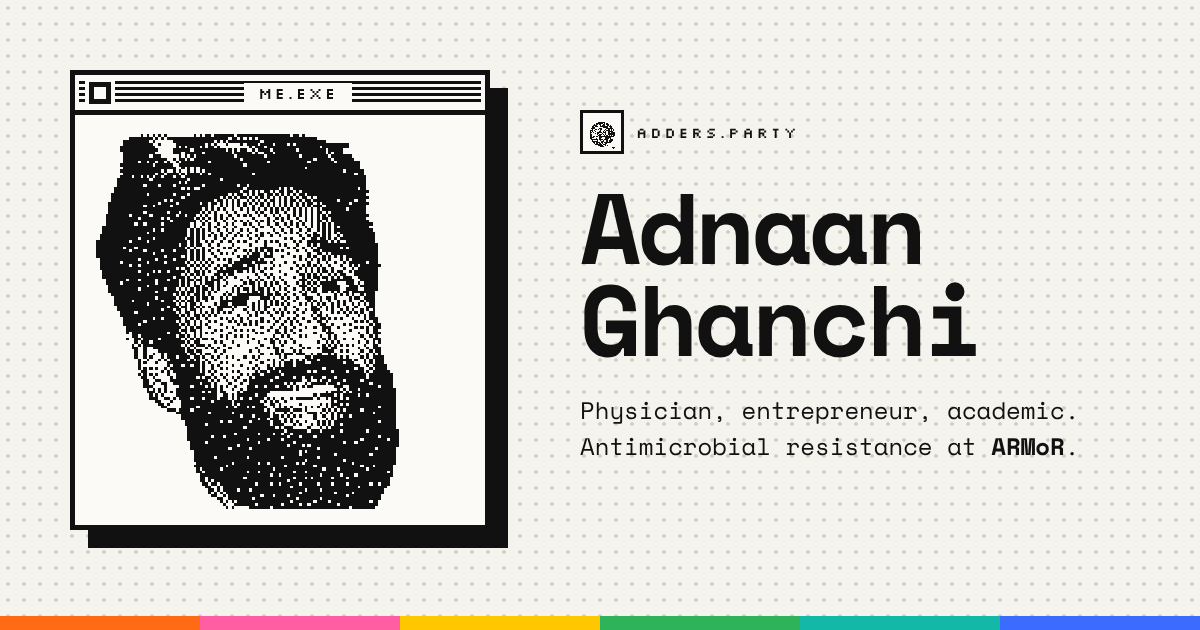
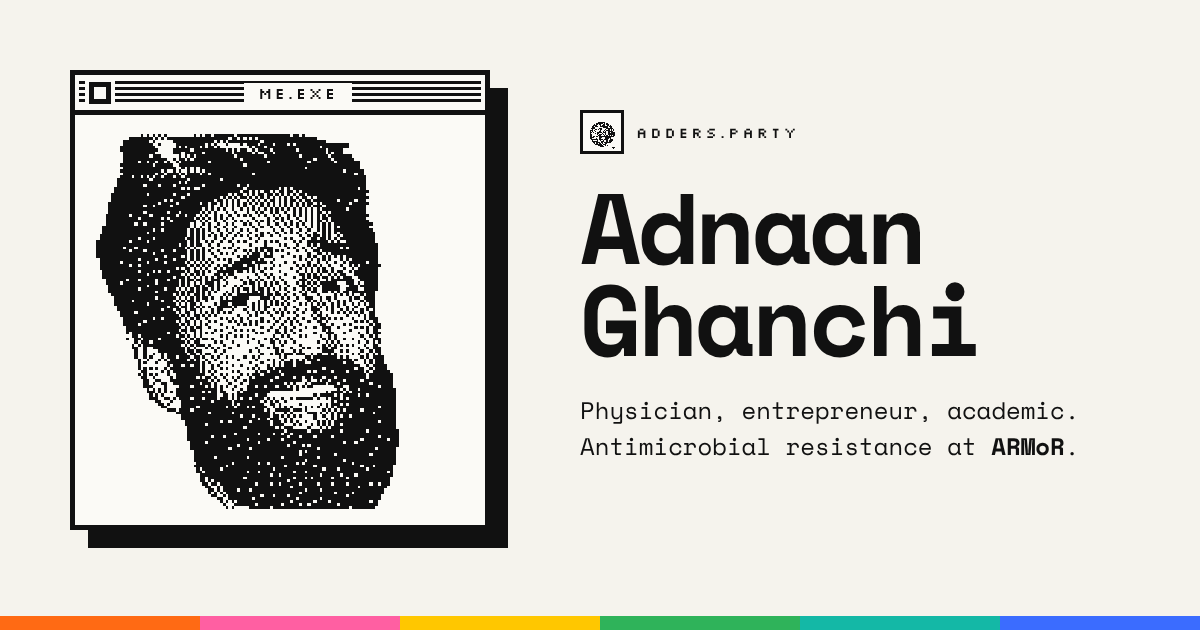
Plain cream background (no dot grid) on site and link preview
Claude-Session: https://claude.ai/code/session_01BQSd4bs8w7NkQPYEEyGhRS

diff --git a/public/index.html b/public/index.html
@@ -61,8 +61,6 @@
   body{
     margin:0; color:var(--ink); font-family:var(--mono); font-size:15px; line-height:1.6;
     background-color:var(--paper);
-    background-image:radial-gradient(var(--dots) 1px, transparent 1.3px);
-    background-size:9px 9px;
     -webkit-font-smoothing:antialiased;
   }
   a{ color:var(--acc-ink); text-decoration:none; }
